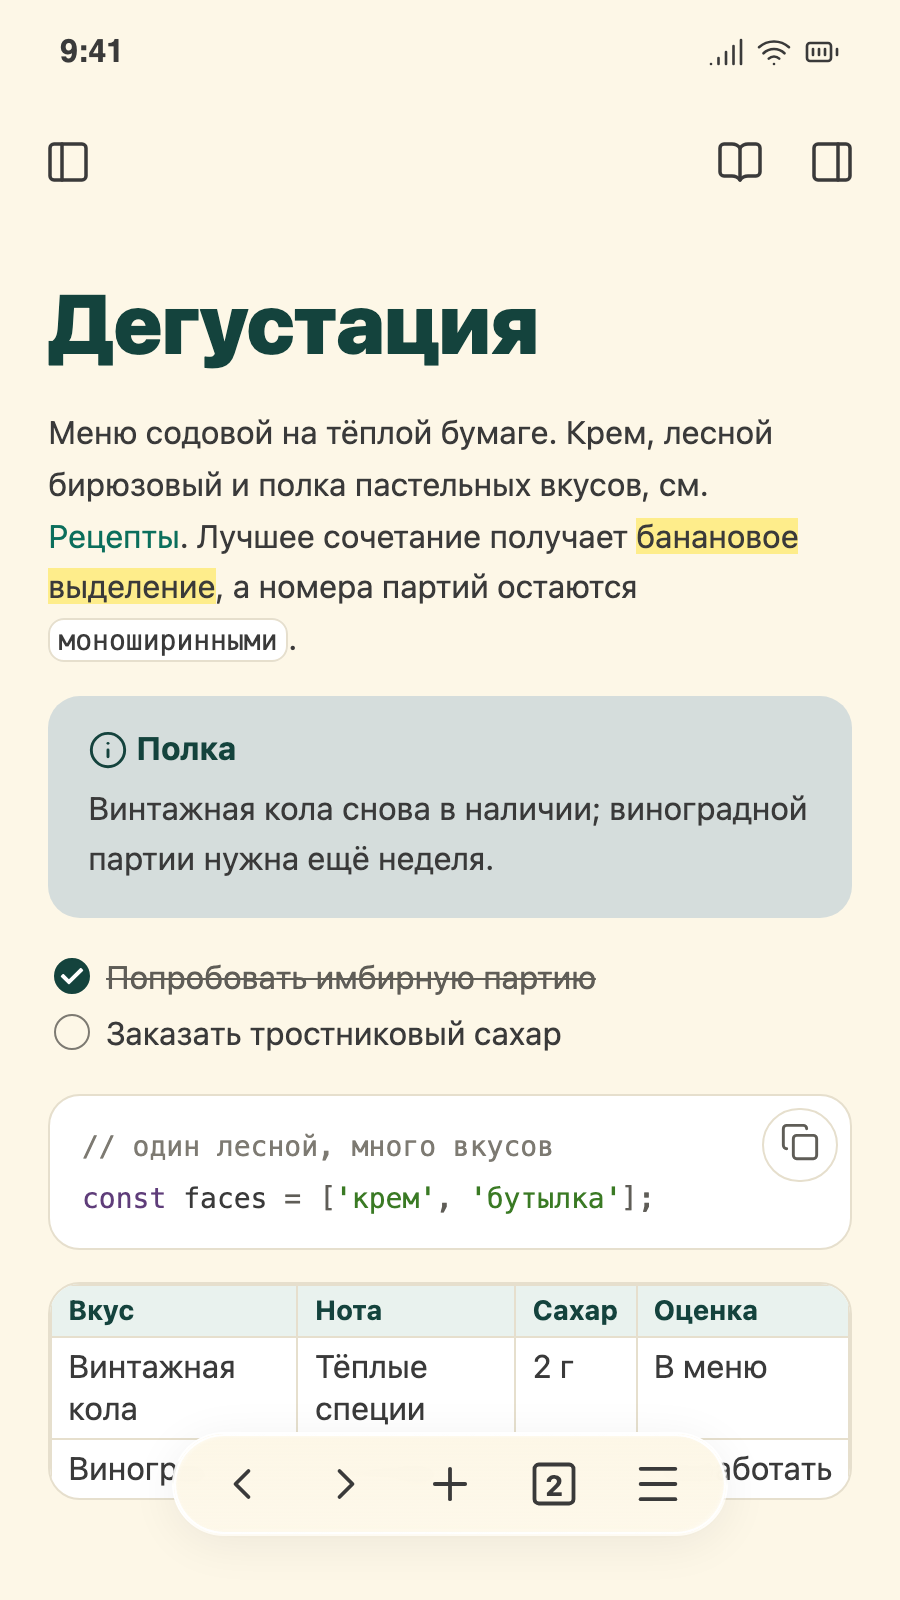
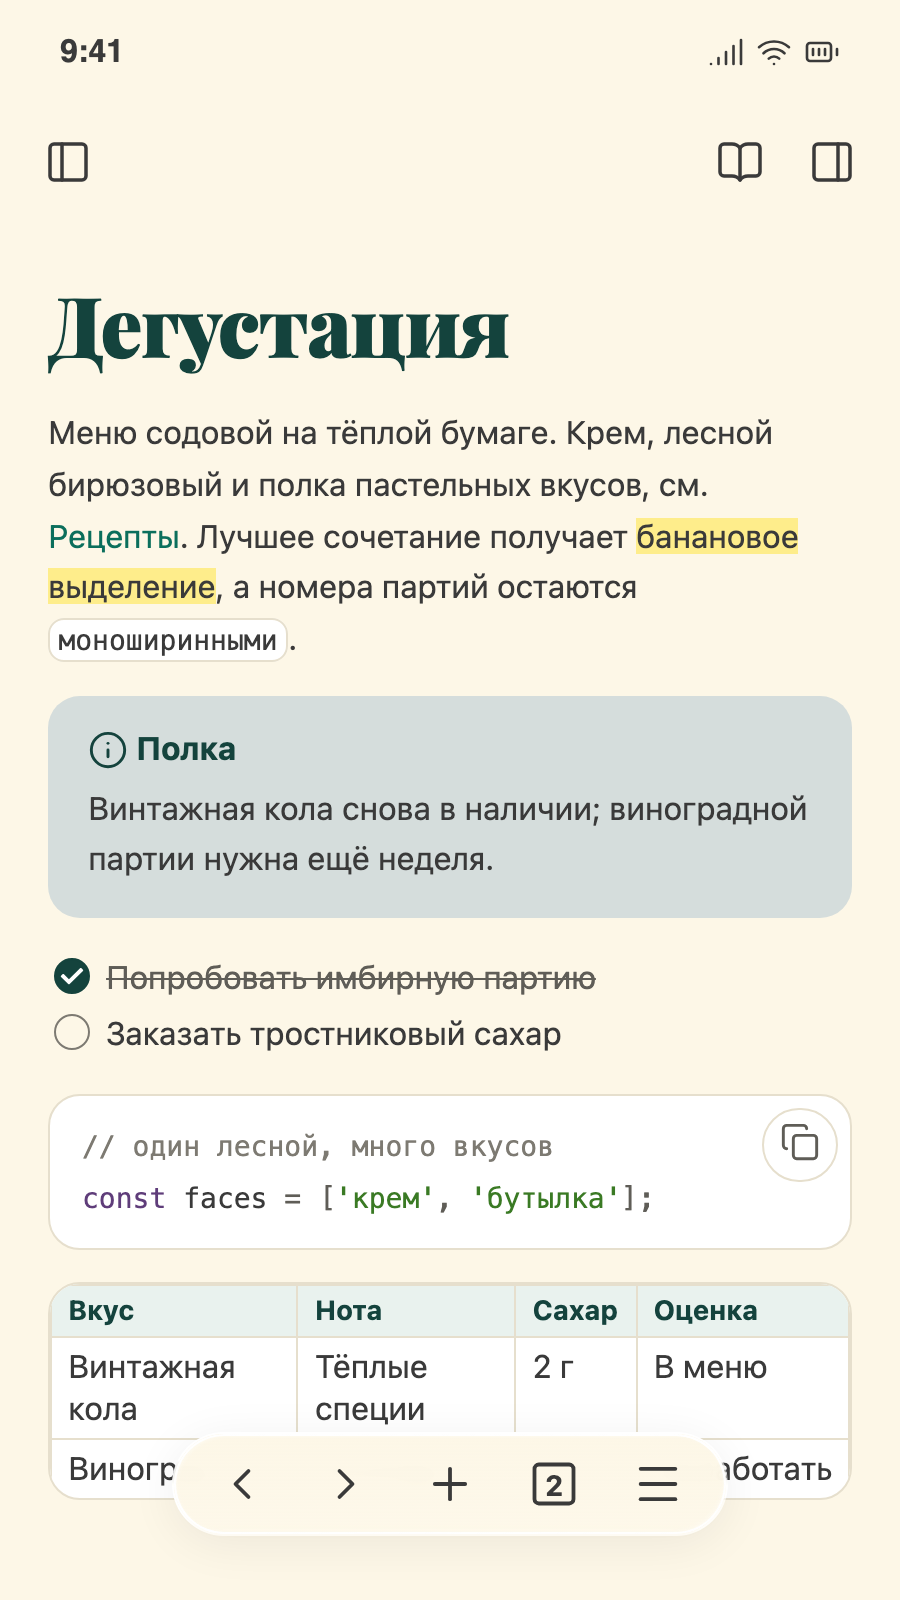
fix: 1.0.1, headline font through Obsidian's own variables, the open file in sage

Changed region(s): [[0.0622, 0.1875, 0.6222, 0.25]]

diff --git a/theme.css b/theme.css
@@ -171,6 +171,8 @@ body {
   --font-monospace-theme: "SFMono-Regular", "SF Mono", "JetBrains Mono",
     ui-monospace, "Menlo", "Consolas", monospace;
   --font-display: "Playfair Display", "Iowan Old Style", "Georgia", serif;
+  --inline-title-font: var(--font-display);
+  --h1-font: var(--font-display); --h2-font: var(--font-display); --h3-font: var(--font-display);
   --line-height-normal: 1.6;
   --bold-weight: 700;
   --radius-s: 8px;
@@ -248,6 +250,8 @@ body {
   --ribbon-background-collapsed: var(--canvas);
   --status-bar-background: var(--surface);
   --nav-item-background-hover: var(--hover);
+  --nav-item-background-active: var(--sage);
+  --nav-item-color-active: var(--headline);
   --nav-item-background-selected: var(--sage);
   --nav-item-color-selected: var(--headline);
   --nav-indentation-guide-color: var(--hairline);
